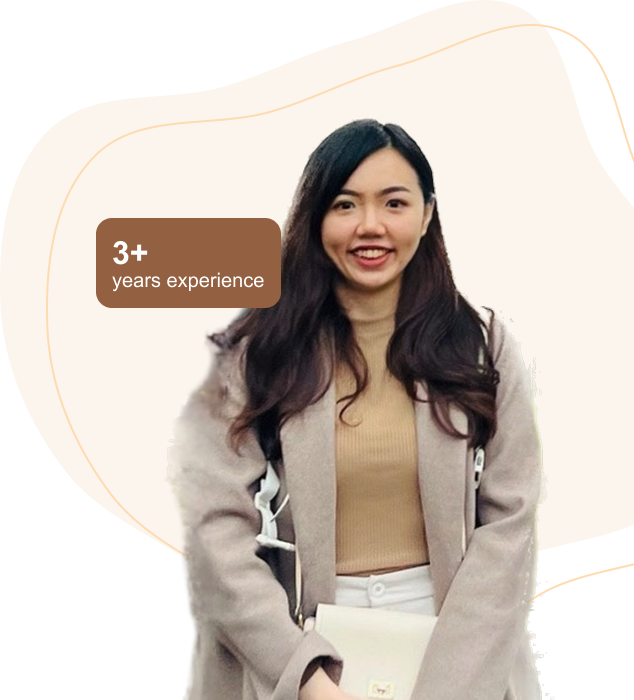
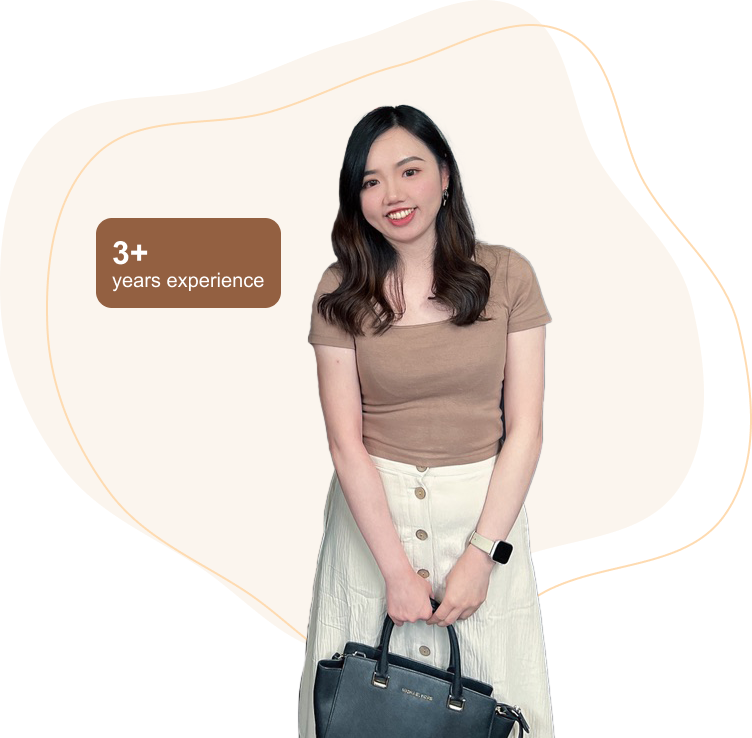
modify index.html

diff --git a/css/main.css b/css/main.css
@@ -1,1 +1,1 @@
-@font-face{font-family:"Arial";src:url("../fonts/cantarell_regular-webfont.woff2") format("woff2"),url("../fonts/cantarell_regular-webfont.woff") format("woff");font-weight:normal;font-style:normal}body{font-family:Arial,Helvetica,sans-serif}h2{font-family:Arial,Helvetica,sans-serif}p{line-height:24px;margin-bottom:20px}#menu{text-align:right}#menu img{width:20%}#header-long{background:#c5896f}#logo img{width:100%}#sidebar-menu{position:fixed;top:0;right:-100%;width:100%;height:100%;background-color:#c5896f;transition:right .3s ease;z-index:3}#sidebar-menu.active{right:0}#close-menu{margin:40px;text-align:right}#close-menu img{width:24px}#sidebar-menu li{list-style:none;padding:24px;text-align:center}#sidebar-menu li a{text-decoration:none;color:#fff;font-weight:bold;padding:16px 64px 16px 64px;text-align:center}#topbar-menu{display:none}@media screen and (min-width: 768px){.header{background:#c5896f;border-radius:300px}#menu{display:none}#sidebar-menu{display:none;background:#c5896f}#header-long{display:flex;justify-content:space-between;align-items:center;background:#c5896f;border-radius:300px}#topbar-menu{display:flex;padding:16px}#topbar-menu ul{list-style-type:none;margin:0;padding:0;display:flex;justify-content:flex-end}#topbar-menu li{list-style:none}#topbar-menu li a{font-size:18px;text-decoration:none;color:#fff;font-weight:bold;padding:16px 32px 16px 32px}#topbar-menu li a:hover{background-color:#fff;color:#fd6f00;border-radius:30px}}@media screen and (min-width: 1200px){.header{border-radius:300px;background:#c5896f}#menu{display:none}#sidebar-menu{display:none}#header-long{display:flex;justify-content:space-between;align-items:center;background:#c5896f}#topbar-menu{display:flex;padding:16px}#topbar-menu ul{list-style-type:none;margin:0;padding:0;display:flex;justify-content:flex-end}#topbar-menu li{list-style:none}#topbar-menu li a{font-size:18px;text-decoration:none;color:#fff;font-weight:bold;padding:16px 32px 16px 32px}#topbar-menu li a:hover{background-color:#fff;color:#fd6f00;border-radius:30px}}.footer-bk{background-color:#b68267;padding:20px 0}.footer-container{display:flex;align-items:center;justify-content:space-between;max-width:1200px;margin:0 auto;padding:10px 20px}.footer-logo{display:flex;align-items:center}.footer-logo img{height:40px;margin-right:10px}.brand-name{font-size:18px;font-weight:bold;color:#fff}.footer-menu ul{display:flex;list-style:none;padding:0;margin:0}.footer-menu ul li{margin:0 20px}.footer-menu ul li a{text-decoration:none;font-weight:bold;color:#fff;font-size:16px}.footer-menu ul li a:hover{color:#fd6f00}.footer-copyright{font-size:14px;color:#fff;padding-top:20px}@media screen and (max-width: 768px){.footer-menu,.footer-copyright{display:none}.footer-logo{justify-content:center}.footer-container{display:grid}}.hero-bk{align-items:center;background-color:#fff;flex-direction:column;align-items:flex-start;padding-top:30px}.hero{text-align:center;color:#fff}.hero-image{display:block}.hero-h1{font-size:40px;margin-bottom:20px;text-align:center;color:#6c3205;width:100%}.hero-p{font-size:24px;margin-top:32px;margin-bottom:20px;line-height:1.3;color:#6c3205;width:100%}.highlight{color:#fd6f00}.social-links{margin-top:40px;margin-bottom:40px}.hero-icon{margin:10px;position:relative;z-index:1;width:15%}.hero-icon:hover{transform:scale(1.2)}@media screen and (min-width: 768px){.hero-h1{font-size:60px}.hero-p{font-size:48px}.hero-icon{margin:10px;width:8%}}@media screen and (min-width: 1200px){.hero-image{display:none}.hero-h1{font-size:72px}.hero-p{font-size:40px}.hero-bk{background:url("../images/hero.png") no-repeat right;align-items:left;background-color:#fff;flex-direction:column;align-items:flex-start;padding-top:200px}.hero{text-align:left}.hero-h1{text-align:left}.hero-icon{margin:8px;width:8%}}.port-bk{background-color:#c5896f;padding-bottom:50px;position:relative;padding-top:20px}.wave-bg{position:absolute;top:-80px;left:0;width:100%;height:auto}.port-title{text-align:center;color:#fff;font-size:32px;font-weight:bold;margin:24px;position:relative;z-index:1}.portfolio-row{display:grid;gap:16px;justify-content:center;grid-template-columns:1fr}.card{background-color:#fff;border-radius:20px;margin-bottom:16px;text-align:center;display:grid;transition:transform .3s ease;width:100%}.category-container{display:flex;flex-wrap:wrap;gap:8px;margin:8px}.category{display:inline-block;color:#c5896f;border:solid #f8d9ca;padding:8px;border-radius:10px;font-size:14px;white-space:nowrap}.card:hover{transform:scale(1.1) !important;transform:scale(1.1)}.card img{width:100%;height:230px;-o-object-fit:cover;object-fit:cover;border-radius:20px 20px 0px 0px}.project-title{font-size:18px;font-weight:bold;margin-top:16px;color:#333}.button-link{text-decoration:none;color:#fff;background-color:#fd6f00;padding:12px 32px;border-radius:50px}.button-link:hover{background-color:#ff9e29;color:#fff}@media screen and (min-width: 768px){.wave-bg{top:-170px}.portfolio-row{display:flex;gap:16px;justify-content:center;grid-template-columns:3fr}}@media screen and (min-width: 1200px){.wave-bg{top:-200px}}.about-bk{margin-top:50px;margin-bottom:50px}.about{background:#fbf5ee;padding:24px;border-radius:30px;margin-bottom:30px}.info-h2{font-size:28px;font-weight:bold;color:#936041;text-align:center;margin-bottom:10px}.info-p{font-size:18px;line-height:1.8;margin-bottom:10px}.stats{display:flex;justify-content:left;gap:80px;margin-top:20px;margin-bottom:30px}.stats .number{font-size:36px;font-weight:bold;color:#fd6f00}.small-p{color:#936041}.resume-btn{background:#f4c190;padding:10px 20px;border-radius:10px;border:none;cursor:pointer;font-weight:bold;margin-top:15px}.experience{background:#f6e4d2;padding:20px;border-radius:30px;margin-bottom:30px}.timeline{position:relative;padding-left:20px;border-left:3px solid #9c6b3d;margin-top:15px}.exp-item{position:relative;padding-left:20px;margin-bottom:15px}.exp-item .dot{position:absolute;left:-27px;top:8px;width:12px;height:12px;background:#9c6b3d;border-radius:50%;border:1.5px solid #f6e4d2}.exp-item h3{margin:0;font-size:18px;font-weight:bold}.exp-item p{margin:5px 0}.exp-item .date{font-size:14px;color:#7a573c}.skills{background:#ffe7dd;padding:20px;border-radius:30px;text-align:center}.skills h2{font-weight:bold}.skill-icons{display:flex;justify-content:center;gap:16px;margin-top:15px}.skill-icons img{width:10%}@media screen and (max-width: 768px){.about-video{margin-top:40px}.about-bt{text-align:center}}.contact{background-color:#f5efe9;padding-bottom:20px;padding-top:20px}.contact-title{color:#6c3205;text-align:center;font-size:32px;font-weight:bold;margin:32px}.contact-img{margin-bottom:40px}.contact-img img{border-radius:26px}.contact-text{margin-top:30px;font-size:18px}.contact-tx{padding-bottom:20px}@media screen and (max-width: 768px){.contact-text{text-align:center;margin-bottom:60px}}#player-container{position:relative;display:flex;flex-direction:column;width:100%}#player-container video{width:100%;height:auto}.video-controls.hidden{display:none}video{max-width:100%;margin-top:30px}.video-controls{right:0;left:0;padding:20px;position:absolute;bottom:0px;transition:all .2s ease;background-image:linear-gradient(to bottom, rgba(0, 0, 0, 0.3), rgba(0, 0, 0, 0.399));display:flex}.video-controls.hide{opacity:0;pointer-events:none}button{padding:0;border:0;background-color:rgba(0,0,0,0)}.fa,.fa-solid{color:#fff;font-size:28px;margin-left:20px}.fa-stop-circle-o{margin-right:20px}.fa-volume-up{margin-left:auto}input[type=range]{-webkit-appearance:none;-moz-appearance:none;appearance:none;background:rgba(0,0,0,0);cursor:pointer;width:15rem}input[type=range]:focus{outline:none}input[type=range]::-webkit-slider-runnable-track{background-color:#fff;border-radius:.5rem;height:.5rem}input[type=range]::-webkit-slider-thumb{-webkit-appearance:none;appearance:none;margin-top:-4px;background-color:gray;border-radius:.5rem;height:1rem;width:1rem}input[type=range]:focus::-webkit-slider-thumb{outline:3px solid gray;outline-offset:.125rem}input[type=range]::-moz-range-track{background-color:#fff;border-radius:.5rem;height:.5rem}input[type=range]::-moz-range-thumb{background-color:gray;border:none;border-radius:.5rem;height:1rem;width:1rem}input[type=range]:focus::-moz-range-thumb{outline:3px solid gray;outline-offset:.125rem}.contact-section{background-color:#fbf5ee}.contact-in-title{color:#6c3205;text-align:center;font-size:32px;font-weight:bold;width:100%;padding:40px}.contact-form{flex:1;display:flex;flex-direction:column;gap:1rem;border-radius:30px;color:#fff9f4;font-weight:bold;margin-bottom:48px}.contact-form label{font-size:18px;text-align:left}.contact-form input,.contact-form textarea{width:100%;padding:.5rem;border:1px solid #fff9f4;border-radius:30px;background-color:#fff9f4;font-size:14px}.contact-form textarea{resize:none;height:100px}.contact-form button{border:1px solid #fd6f00;width:100%}.form-bt{margin-top:32px;margin-bottom:32px}.modal{display:none;position:fixed;z-index:1;left:0;top:0;width:100%;height:100%;background-color:rgba(0,0,0,.4)}.modal-content{background-color:#fff;margin:15% auto;padding:20px;border:1px solid #888;width:80%}.close{cursor:pointer;position:absolute;top:10px;right:10px;font-size:24px;font-weight:bold}.about-section{background-color:#fbf5ee;padding-top:20px;padding-bottom:60px}.about-section h1{text-align:center}.about-container{color:#6c3205}.aboutpg{padding:24px;border-radius:30px;margin-bottom:30px;text-align:center;font-size:32px}.about-photo img{width:100%;border-radius:16px;-o-object-fit:cover;object-fit:cover}.about-intro p{font-size:16px;line-height:1.5}.what-i-do{background-color:#c5896f;padding-top:20px;padding-bottom:60px;color:#fff}.what-i-do h2{color:#fff}.what-i-do h3{margin-bottom:10px}.skill-item{padding:24px}.skills-tools{padding:48px 16px;color:#6c3205}.skills-tools-container{margin-bottom:30px}.st{margin:16px}.st-title{text-align:center;margin-bottom:30px}.st-content{margin:40px}.st p{font-size:16px;line-height:1.6}.skillpg-icons{display:flex;justify-content:center;gap:16px;margin-top:15px}.skillpg-icons img{width:15%}.skill-space{margin-bottom:60px}.experience2{background:#f6e4d2;padding:24px;border-radius:30px;margin-bottom:24px}.skills2{background:#ffe7dd;padding:20px;border-radius:30px;text-align:center;margin-bottom:24px}@media screen and (min-width: 1200px){.skillpg-icons img{width:20%}}.portfolio-bk{padding-bottom:50px;background-color:#fbf5ee}.portfolio-link{display:block;text-decoration:none;color:inherit}.portpage-title{text-align:center;color:#6c3205;font-size:32px;font-weight:bold;margin:24px}.header-bk{background-color:#fbf5ee}.pro-bk{background-color:#fbf5ee}.case-study{padding-top:40px;padding-bottom:60px}.case-study h2{text-align:center;color:#6c3205;font-size:32px;font-weight:bold;padding:24px}.created-dat{margin-top:40px;color:#6c3205;font-size:14px}.background,.created-date,.problem,.description,.categories,.solution{margin-bottom:20px;color:#6c3205}.case-study h3{position:relative}.case-study h3::before{content:"";display:inline-block;width:10px;height:10px;background-color:#6c3205;border-radius:50%;margin-right:10px;vertical-align:middle}.case-study p{line-height:28px;font-size:16px}.images img{margin:20px;text-align:center;border-radius:20px}.video-container{position:relative;padding-bottom:56.25%;height:0;overflow:hidden;max-width:100%;background:#000}.video-container iframe{position:absolute;top:0;left:0;width:100%;height:100%}.lot-images{text-align:center}.lot-images img{width:70%;border:solid #fff}body{font-family:Arial,sans-serif;background-color:#fff;color:#3e3e3e;margin:0;padding:0}.container{max-width:1200px;margin:0 auto;padding:20px}.project-list{background-color:#fff;border:1px solid #e0e0e0;margin:10px 0;padding:10px;border-radius:5px;box-shadow:0 2px 5px rgba(0,0,0,.1)}.project-list a{text-decoration:none;color:#e00c0c;margin-left:10px;font-weight:bold}.project-list a:hover{color:#950808}form{background-color:#fff;padding:20px;margin-top:20px;border-radius:8px;box-shadow:0 4px 10px rgba(0,0,0,.1)}form label{display:block;margin-bottom:8px;font-weight:bold;color:#5d4037}form input[type=submit]{background-color:#8d6e63;color:#fff;border:none;padding:10px 20px;border-radius:5px;font-size:16px;cursor:pointer}form input[type=submit]:hover{background-color:#5d4037}a.logout{display:inline-block;margin-top:20px;padding:10px 20px;background-color:#d50e00;color:#fff;text-decoration:none;border-radius:5px}a.logout:hover{background-color:#a60000}/*# sourceMappingURL=main.css.map */
+@font-face{font-family:"Arial";src:url("../fonts/cantarell_regular-webfont.woff2") format("woff2"),url("../fonts/cantarell_regular-webfont.woff") format("woff");font-weight:normal;font-style:normal}body{font-family:Arial,Helvetica,sans-serif}h2{font-family:Arial,Helvetica,sans-serif}p{line-height:24px;margin-bottom:20px}#menu{text-align:right}#menu img{width:20%}#header-long{background:#c5896f}#logo img{width:100%}#sidebar-menu{position:fixed;top:0;right:-100%;width:100%;height:100%;background-color:#c5896f;transition:right .3s ease;z-index:3}#sidebar-menu.active{right:0}#close-menu{margin:40px;text-align:right}#close-menu img{width:24px}#sidebar-menu li{list-style:none;padding:24px;text-align:center}#sidebar-menu li a{text-decoration:none;color:#fff;font-weight:bold;padding:16px 64px 16px 64px;text-align:center}#topbar-menu{display:none}@media screen and (min-width: 768px){.header{background:#c5896f;border-radius:300px}#menu{display:none}#sidebar-menu{display:none;background:#c5896f}#header-long{display:flex;justify-content:space-between;align-items:center;background:#c5896f;border-radius:300px}#topbar-menu{display:flex;padding:16px}#topbar-menu ul{list-style-type:none;margin:0;padding:0;display:flex;justify-content:flex-end}#topbar-menu li{list-style:none}#topbar-menu li a{font-size:18px;text-decoration:none;color:#fff;font-weight:bold;padding:16px 32px 16px 32px}#topbar-menu li a:hover{background-color:#fff;color:#fd6f00;border-radius:30px}}@media screen and (min-width: 1200px){.header{border-radius:300px;background:#c5896f}#menu{display:none}#sidebar-menu{display:none}#header-long{display:flex;justify-content:space-between;align-items:center;background:#c5896f}#topbar-menu{display:flex;padding:16px}#topbar-menu ul{list-style-type:none;margin:0;padding:0;display:flex;justify-content:flex-end}#topbar-menu li{list-style:none}#topbar-menu li a{font-size:18px;text-decoration:none;color:#fff;font-weight:bold;padding:16px 32px 16px 32px}#topbar-menu li a:hover{background-color:#fff;color:#fd6f00;border-radius:30px}}.footer-bk{background-color:#b68267;padding:20px 0}.footer-container{display:flex;align-items:center;justify-content:space-between;max-width:1200px;margin:0 auto;padding:10px 20px}.footer-logo{display:flex;align-items:center}.footer-logo img{height:40px;margin-right:10px}.brand-name{font-size:18px;font-weight:bold;color:#fff}.footer-menu ul{display:flex;list-style:none;padding:0;margin:0}.footer-menu ul li{margin:0 20px}.footer-menu ul li a{text-decoration:none;font-weight:bold;color:#fff;font-size:16px}.footer-menu ul li a:hover{color:#fd6f00}.footer-copyright{font-size:14px;color:#fff;padding-top:20px}@media screen and (max-width: 768px){.footer-menu,.footer-copyright{display:none}.footer-logo{justify-content:center}.footer-container{display:grid}}.hero-bk{align-items:center;background-color:#fff;flex-direction:column;align-items:flex-start;padding-top:30px}.hero{text-align:center;color:#fff}.hero-image{display:block}.hero-h1{font-size:40px;margin-bottom:20px;text-align:center;color:#6c3205;width:100%}.hero-p{font-size:18px;margin-top:32px;margin-bottom:20px;line-height:1.3;color:#c5896f;width:100%}.hero-p2{font-size:14px;margin-bottom:20px;line-height:1.3;color:#6c3205;width:100%}.button-hire{text-decoration:none;font-size:22px;font-weight:bold;color:#fff;background-color:#fd6f00;padding:12px 32px;border-radius:50px;margin-bottom:20px;position:relative;z-index:1;transition:transform .3s ease,box-shadow .3s ease}.hire-con{margin-top:30px;margin-bottom:30px;position:relative;z-index:1}.button-hire:hover{background-color:#f6e4d2;color:#936041;transform:translateY(-3px);box-shadow:0px 6px 10px rgba(0,0,0,.32)}.highlight{color:#fd6f00}.social-links{margin-top:30px;margin-bottom:40px}.hero-icon{margin:10px;position:relative;z-index:1;width:15%}.hero-icon:hover{transform:scale(1.2)}@media screen and (min-width: 768px){.hero-h1{font-size:60px}.hero-p{font-size:24px}.hero-p2{font-size:16px}.hero-icon{margin:10px;width:8%}}@media screen and (min-width: 1200px){.hero-image{display:none}.hero-h1{font-size:72px}.hero-p{font-size:28px}.hero-p2{font-size:20px}.hero-bk{background:url("../images/hero.png") no-repeat right;align-items:left;background-color:#fff;flex-direction:column;align-items:flex-start;padding-top:200px}.hero{text-align:left}.hero-h1{text-align:left}.hero-icon{margin:8px;width:8%}}.port-bk{background-color:#c5896f;padding-bottom:50px;position:relative;padding-top:20px}.wave-bg{position:absolute;top:-80px;left:0;width:100%;height:auto}.port-title{text-align:center;color:#fff;font-size:32px;font-weight:bold;margin:24px;position:relative;z-index:1}.portfolio-row{display:grid;gap:16px;justify-content:center;grid-template-columns:1fr}.card{background-color:#fff;border-radius:20px;margin-bottom:16px;text-align:center;display:grid;transition:transform .3s ease;width:100%}.category-container{display:flex;flex-wrap:wrap;gap:8px;margin:8px}.category{display:inline-block;color:#c5896f;border:solid #f8d9ca;padding:8px;border-radius:10px;font-size:14px;white-space:nowrap}.card:hover{transform:scale(1.1) !important;transform:scale(1.1)}.card img{width:100%;height:230px;-o-object-fit:cover;object-fit:cover;border-radius:20px 20px 0px 0px}.project-title{font-size:18px;font-weight:bold;margin-top:16px;color:#333}.button-link{text-decoration:none;color:#fff;background-color:#fd6f00;padding:12px 32px;border-radius:50px}.button-link:hover{background-color:#ff9e29;color:#fff}@media screen and (min-width: 768px){.wave-bg{top:-170px}.portfolio-row{display:flex;gap:16px;justify-content:center;grid-template-columns:3fr}}@media screen and (min-width: 1200px){.wave-bg{top:-200px}}.about-bk{padding-top:50px;padding-bottom:50px}.about{background:#fbf5ee;padding:24px;border-radius:30px;margin-bottom:30px}.info-h2{font-size:28px;font-weight:bold;color:#936041;text-align:center;margin-bottom:10px}.info-p{font-size:18px;line-height:1.8;margin-bottom:10px}.stats{display:flex;justify-content:left;gap:80px;margin-top:20px;margin-bottom:30px}.stats .number{font-size:36px;font-weight:bold;color:#fd6f00}.small-p{color:#936041}.resume-btn{background:#f4c190;padding:10px 20px;border-radius:10px;border:none;cursor:pointer;font-weight:bold;margin-top:15px}.experience{background:#f6e4d2;padding:20px;border-radius:30px;margin-bottom:30px}.timeline{position:relative;padding-left:20px;border-left:3px solid #9c6b3d;margin-top:15px}.exp-item{position:relative;padding-left:20px;margin-bottom:15px}.exp-item .dot{position:absolute;left:-27px;top:8px;width:12px;height:12px;background:#9c6b3d;border-radius:50%;border:1.5px solid #f6e4d2}.exp-item h3{margin:0;font-size:18px;font-weight:bold}.exp-item p{margin:5px 0}.exp-item .date{font-size:14px;color:#7a573c}.skills{background:#ffe7dd;padding:20px;border-radius:30px;text-align:center;margin-bottom:30px}.skills h2{font-weight:bold}.skill-icons{display:flex;justify-content:center;gap:16px;margin-top:15px}.skill-icons img{width:10%}@media screen and (max-width: 768px){.about-video{margin-top:40px}.about-bt{text-align:center}}.contact{background-color:#f5efe9;padding-bottom:20px;padding-top:20px}.contact-title{color:#6c3205;text-align:center;font-size:32px;font-weight:bold;margin:32px}.contact-img{margin-bottom:40px}.contact-img img{border-radius:26px}.contact-text{margin-top:30px;font-size:18px}.contact-tx{padding-bottom:20px}@media screen and (max-width: 768px){.contact-text{text-align:center;margin-bottom:60px}}#player-container{position:relative;display:flex;flex-direction:column;width:100%}#player-container video{width:100%;height:auto}.video-controls.hidden{display:none}video{max-width:100%;margin-top:50px;border-radius:30px}.video-controls{right:0;left:0;padding:20px;position:absolute;bottom:0px;transition:all .2s ease;background-image:linear-gradient(to bottom, rgba(255, 255, 255, 0.772), rgba(255, 255, 255, 0.913));display:flex;border-radius:0px 0px 30px 30px}.video-controls.hide{opacity:0;pointer-events:none}button{padding:0;border:0;background-color:rgba(0,0,0,0)}.fa,.fa-solid{color:#936041;font-size:28px;margin-left:20px}.fa-stop-circle-o{margin-right:20px}.fa-volume-up{margin-left:auto}input[type=range]{-webkit-appearance:none;-moz-appearance:none;appearance:none;background:rgba(0,0,0,0);cursor:pointer;width:15rem}input[type=range]:focus{outline:none}input[type=range]::-webkit-slider-runnable-track{background-color:#c5896f;border-radius:.5rem;height:.5rem}input[type=range]::-webkit-slider-thumb{-webkit-appearance:none;appearance:none;margin-top:-4px;background-color:#936041;border-radius:.5rem;height:1rem;width:1rem}input[type=range]:focus::-webkit-slider-thumb{outline:3px solid gray;outline-offset:.125rem}input[type=range]::-moz-range-track{background-color:#fff;border-radius:.5rem;height:.5rem}input[type=range]::-moz-range-thumb{background-color:gray;border:none;border-radius:.5rem;height:1rem;width:1rem}input[type=range]:focus::-moz-range-thumb{outline:3px solid gray;outline-offset:.125rem}html{scroll-behavior:smooth}.contact-section{background-color:#fbf5ee;padding-bottom:50px}.contact-in-title{color:#6c3205;text-align:center;font-size:32px;font-weight:bold;width:100%;padding:40px}.contact-form{flex:1;display:flex;flex-direction:column;gap:1rem;border-radius:30px;color:#fbf5ee;font-weight:bold;margin-bottom:48px;background-color:#f6e4d2}.contact-form label{font-size:18px;text-align:left}.contact-form input,.contact-form textarea{width:100%;padding:.5rem;border:1px solid #fff9f4;border-radius:30px;background-color:#fff;font-size:14px}.contact-form textarea{resize:none;height:100px}.contact-form button{border:1px solid #fd6f00;width:100%}.form-bt{margin-top:32px;margin-bottom:32px}.modal{display:none;position:fixed;z-index:1;left:0;top:0;width:100%;height:100%;background-color:rgba(0,0,0,.4)}.modal-content{background-color:#fff;margin:15% auto;padding:20px;border:1px solid #888;width:80%}.close{cursor:pointer;position:absolute;top:10px;right:10px;font-size:24px;font-weight:bold}.about-section{background-color:#fbf5ee;padding-top:20px;padding-bottom:60px}.about-section h1{text-align:center}.about-container{color:#6c3205}.aboutpg{padding:24px;border-radius:30px;margin-bottom:30px;text-align:center;font-size:32px}.about-photo img{width:100%;border-radius:16px;-o-object-fit:cover;object-fit:cover}.about-intro p{font-size:16px;line-height:1.5}.what-i-do{background-color:#c5896f;padding-top:20px;padding-bottom:60px;color:#fff}.what-i-do h2{color:#fff}.what-i-do h3{margin-bottom:10px}.skill-item{padding:24px}.skills-tools{padding:48px 16px;color:#6c3205}.skills-tools-container{margin-bottom:30px}.st{margin:16px}.st-title{text-align:center;margin-bottom:30px}.st-content{margin:40px}.st p{font-size:16px;line-height:1.6}.skillpg-icons{display:flex;justify-content:center;gap:16px;margin-top:15px}.skillpg-icons img{width:15%}.skill-space{margin-bottom:60px}.experience2{background:#f6e4d2;padding:24px;border-radius:30px;margin-bottom:24px}.skills2{background:#ffe7dd;padding:20px;border-radius:30px;text-align:center;margin-bottom:24px}@media screen and (min-width: 1200px){.skillpg-icons img{width:20%}}.portfolio-bk{padding-bottom:50px;background-color:#fbf5ee}.portfolio-link{display:block;text-decoration:none;color:inherit}.portpage-title{text-align:center;color:#6c3205;font-size:32px;font-weight:bold;margin:24px}.header-bk{background-color:#fbf5ee}.pro-bk{background-color:#fbf5ee}.case-study{padding-top:40px;padding-bottom:60px}.case-study h2{text-align:center;color:#6c3205;font-size:32px;font-weight:bold;padding:24px}.created-dat{margin-top:40px;color:#6c3205;font-size:14px}.background,.created-date,.problem,.description,.categories,.solution{margin-bottom:20px;color:#6c3205}.case-study h3{position:relative}.case-study h3::before{content:"";display:inline-block;width:10px;height:10px;background-color:#6c3205;border-radius:50%;margin-right:10px;vertical-align:middle}.case-study p{line-height:28px;font-size:16px}.images img{margin:20px;text-align:center;border-radius:20px}.video-container{position:relative;padding-bottom:56.25%;height:0;overflow:hidden;max-width:100%;background:#000}.video-container iframe{position:absolute;top:0;left:0;width:100%;height:100%}.lot-images{text-align:center}.lot-images img{width:70%;border:solid #fff}body{font-family:Arial,sans-serif;background-color:#fff;color:#3e3e3e;margin:0;padding:0}.container{max-width:1200px;margin:0 auto;padding:20px}.project-list{background-color:#fff;border:1px solid #e0e0e0;margin:10px 0;padding:10px;border-radius:5px;box-shadow:0 2px 5px rgba(0,0,0,.1)}.project-list a{text-decoration:none;color:#e00c0c;margin-left:10px;font-weight:bold}.project-list a:hover{color:#950808}form{padding:20px;margin-top:20px;border-radius:8px}form label{display:block;margin-bottom:8px;font-weight:bold;color:#5d4037}form input[type=submit]{background-color:#8d6e63;color:#fff;border:none;padding:10px 20px;border-radius:5px;font-size:16px;cursor:pointer}form input[type=submit]:hover{background-color:#5d4037}a.logout{display:inline-block;margin-top:20px;padding:10px 20px;background-color:#d50e00;color:#fff;text-decoration:none;border-radius:5px}a.logout:hover{background-color:#a60000}/*# sourceMappingURL=main.css.map */

diff --git a/sass/components/_hero.scss b/sass/components/_hero.scss
@@ -26,27 +26,64 @@
 }
 
 .hero-p{
-    font-size: 24px;
+    font-size: 18px;
     margin-top: 32px;
+    margin-bottom: 20px;
+    line-height: 1.3;
+    color: #C5896F;
+    width: 100%;
+}
+
+.hero-p2{
+    font-size: 14px;
     margin-bottom: 20px;
     line-height: 1.3;
     color: #6C3205;
     width: 100%;
 }
 
+.button-hire{
+    text-decoration: none;
+    font-size: 22px;
+    font-weight: bold;
+    color: #fff;
+    background-color: #FD6F00 ;
+    padding: 12px 32px;
+    border-radius: 50px;
+    margin-bottom: 20px;
+    position: relative;
+    z-index: 1; 
+    transition: transform 0.3s ease, box-shadow 0.3s ease;
+ }
+
+ .hire-con{
+    margin-top: 30px;
+    margin-bottom: 30px;
+    position: relative;
+    z-index: 1; 
+ }
+
+ .button-hire:hover{
+    background-color: #f6e4d2;;
+    color: #936041;
+    transform: translateY(-3px); 
+    box-shadow: 0px 6px 10px rgba(0, 0, 0, 0.32); 
+ }
+
 .highlight{
     color: #FD6F00;
 }
 
 .social-links{
-    margin-top: 40px;
+    margin-top: 30px;
     margin-bottom:40px;
+    
 }
 
 .hero-icon{
     margin: 10px;
     position: relative;
-    z-index: 1; /* 確保 icon 在前面 */
+    z-index: 1; 
     width: 15%;
 }
 
@@ -60,7 +97,11 @@
     }
 
     .hero-p{
-        font-size: 48px;
+        font-size: 24px;
+    }
+
+    .hero-p2{
+        font-size: 16px;
     }
 
     .hero-icon{
@@ -79,7 +120,11 @@
     }
 
     .hero-p{
-        font-size: 40px;
+        font-size: 28px;
+    }
+
+    .hero-p2{
+        font-size: 20px;
     }
 
     .hero-bk{

diff --git a/sass/components/_video.scss b/sass/components/_video.scss
@@ -6,7 +6,7 @@
 }
 #player-container video {
   width: 100%;
-  height: auto; /* 保持比例 */
+  height: auto; 
 }
 
 .video-controls.hidden {
@@ -14,8 +14,9 @@
 }
 
 video {
-  max-width: 100%; /* 保證視頻寬度不會超過父容器 */
-  margin-top: 30px;
+  max-width: 100%; 
+  margin-top: 50px;
+  border-radius: 30px;
 }
 
 .video-controls {
@@ -25,8 +26,9 @@ video {
     position: absolute;
     bottom: 0px;
     transition: all 0.2s ease;
-    background-image: linear-gradient(to bottom, rgba(0, 0, 0, 0.3), rgba(0, 0, 0, 0.399));
+    background-image: linear-gradient(to bottom, rgba(255, 255, 255, 0.772), rgba(255, 255, 255, 0.913));
     display: flex;
+    border-radius: 0px 0px 30px 30px;
   }
   
   .video-controls.hide {
@@ -41,7 +43,7 @@ video {
   }
 
   .fa, .fa-solid {
-    color: #ffffff;
+    color: #936041;
     font-size: 28px;
     margin-left: 20px;
   } 
@@ -77,7 +79,7 @@ input[type="range"] {
   /******** Chrome, Safari, Opera and Edge Chromium styles ********/
   /* slider track */
   input[type="range"]::-webkit-slider-runnable-track {
-    background-color: #ffffff;
+    background-color: #C5896F;
     border-radius: 0.5rem;
     height: 0.5rem;
   }
@@ -87,7 +89,7 @@ input[type="range"] {
     -webkit-appearance: none; /* Override default look */
     appearance: none;
     margin-top: -4px; /* Centers thumb on the track */
-    background-color: #808080;
+    background-color: #936041;
     border-radius: 0.5rem;
     height: 1rem;
     width: 1rem;

diff --git a/sass/pages/_contact.scss b/sass/pages/_contact.scss
@@ -1,6 +1,7 @@
 
 .contact-section {
     background-color: #FBF5EE;
+    padding-bottom: 50px;
 }
 
 .contact-in-title{
@@ -19,9 +20,10 @@
     flex-direction: column;
     gap: 1rem;
     border-radius: 30px;
-    color: #FFF9F4;
+    color: #FBF5EE;
     font-weight: bold;
     margin-bottom: 48px;
+    background-color: #F6E4D2;
   }
   
   .contact-form label {
@@ -34,10 +36,9 @@
   .contact-form textarea {
     width: 100%;
     padding: 0.5rem;
-
     border: 1px solid #FFF9F4;
     border-radius: 30px;
-    background-color: #FFF9F4;
+    background-color: #ffffff;
     font-size: 14px;
 
   }
@@ -60,14 +61,14 @@
   }
   
   .modal {
-    display: none; /* 初始隱藏 */
+    display: none; 
     position: fixed;
-    z-index: 1; /* 確保顯示在最上層 */
+    z-index: 1; 
     left: 0;
     top: 0;
     width: 100%;
     height: 100%;
-    background-color: rgba(0, 0, 0, 0.4); /* 背景半透明 */
+    background-color: rgba(0, 0, 0, 0.4); 
 }
 
 .modal-content {

diff --git a/sass/components/_about.scss b/sass/components/_about.scss
@@ -1,6 +1,6 @@
 .about-bk{
-    margin-top: 50px;
-    margin-bottom: 50px;
+    padding-top: 50px;
+    padding-bottom: 50px;
 }
 .about {
     background: #FBF5EE;
@@ -51,7 +51,7 @@
     margin-top: 15px;
 }
 
-/* Experience 區塊 */
+/* Experience  */
 .experience {
     background: #F6E4D2;
     padding: 20px;
@@ -98,12 +98,13 @@
     color: #7a573c;
 }
 
-/* Skills 區塊 */
+/* Skills */
 .skills {
     background: #FFE7DD;
     padding: 20px;
     border-radius: 30px;
     text-align: center;
+    margin-bottom: 30px;
 }
 
 .skills h2 {

diff --git a/contact.html b/contact.html
@@ -49,7 +49,6 @@
         <h1 class="contact-in-title col-span-full">Contact</h1>
         <div class="grid-con contact-all">
 
-                <!-- Right Form -->
             <div class="contact-out col-span-full">
                 <form class="contact-form" action="process_contact.php" method="POST">
                     <label for="first-name">First Name</label>

diff --git a/sass/pages/_project_list.scss b/sass/pages/_project_list.scss
@@ -38,11 +38,11 @@ body {
 }
 
 form {
-    background-color: #fff;
+    // background-color: #fff;
     padding: 20px;
     margin-top: 20px;
     border-radius: 8px;
-    box-shadow: 0 4px 10px rgba(0, 0, 0, 0.1);
+    // box-shadow: 0 4px 10px rgba(0, 0, 0, 0.1);
 }
 
 form label {

diff --git a/sass/pages/_home.scss b/sass/pages/_home.scss
@@ -1,0 +1,6 @@
+html {
+    scroll-behavior: smooth;
+  }
+
+  
+  

diff --git a/index.php b/index.php
@@ -58,23 +58,29 @@ try {
     </div>
     <div class="hero-bk">
         <section class="grid-con hero">
-            <div class="col-span-full m-col-span-full l-col-span-full">
+            <div class="col-span-full m-col-span-full l-col-start-1 l-col-end-7">
                 <h1 class="hero-h1">Hello, I'm <span class="highlight">Joy</span></h1>
-                <p class="hero-p">I'm a UI/UX & Graphic Designer</p>
+                <p class="hero-p">UI/UX & Graphic Designer</p>
+                <p class="hero-p2">My strength lies in translating complex challenges into clear, user-centric design solutions that elevate both user experience and brand identity.</p>
                 <div class="social-links">
-                    <a href="https://www.linkedin.com/in/qiao-yi-chu-978721199/" target="_blank">
-                        <img src="images/LinkedIn.svg" class="hero-icon" alt="linkedin icon">
-                    </a>
-                    <a href="https://github.com/Qiaoyi-C" target="_blank">
-                        <img src="images/Github.svg" class="hero-icon" alt="github icon">
-                    </a>
-                    <a href="https://dribbble.com/joychu" target="_blank">
-                        <img src="images/Dribbble.svg" class="hero-icon" alt="dribbble icon">
-                    </a>
+                    
+                        <a href="https://www.linkedin.com/in/qiao-yi-chu-978721199/" target="_blank">
+                            <img src="images/LinkedIn.svg" class="hero-icon" alt="linkedin icon">
+                        </a>
+                        <a href="https://github.com/Qiaoyi-C" target="_blank">
+                            <img src="images/Github.svg" class="hero-icon" alt="github icon">
+                        </a>
+                        <a href="https://dribbble.com/joychu" target="_blank">
+                            <img src="images/Dribbble.svg" class="hero-icon" alt="dribbble icon">
+                        </a>
+
+                    <div class="hire-con ">
+                        <a href="#contact" class="button-hire">Hire Me</a>
+                    </div>
                 </div>
 
             <div class="hero-image">
-                <img src="images/hero 2.png" alt="Joy Chu">
+                <img src="images/hero.png" alt="Joy Chu">
             </div>
         </section>
     </div>
@@ -228,6 +234,45 @@ try {
 </section>
 
     </section>
+
+      <!-- Contact Section -->
+      <section class="contact-section" id="contact">
+
+    <h1 class="contact-in-title col-span-full ">Contact</h1>
+    <div class="grid-con contact-all">
+
+    <div class="contact-out col-span-full l-col-start-3 l-col-end-11">
+        <form class="contact-form" action="process_contact.php" method="POST">
+            <label for="first-name">First Name</label>
+            <input type="text" id="first-name" name="first_name" placeholder="First Name" >
+    
+            <label for="last-name">Last Name</label>
+            <input type="text" id="last-name" name="last_name" placeholder="Last Name" >
+    
+            <label for="phone">Phone</label>
+            <input type="text" id="phone" name="phone" placeholder="Phone" >
+    
+            <label for="email">E-mail</label>
+            <input type="email" id="email" name="email" placeholder="E-mail">
+    
+            <label for="message">Message</label>
+            <textarea id="message" name="message" placeholder="Message" ></textarea>
+    
+            <div class="form-bt">
+                <button type="submit" class="button-link">Send</button>
+            </div>
+        </form>
+    </div>
+
+    <div id="successModal" class="modal">
+        <div class="modal-content">
+            <span class="close">&times;</span>
+            <p>Thank you for your message. We will get back to you shortly!</p>
+        </div>
+    </div>
+
+</div>
+</section>
 
     
     
